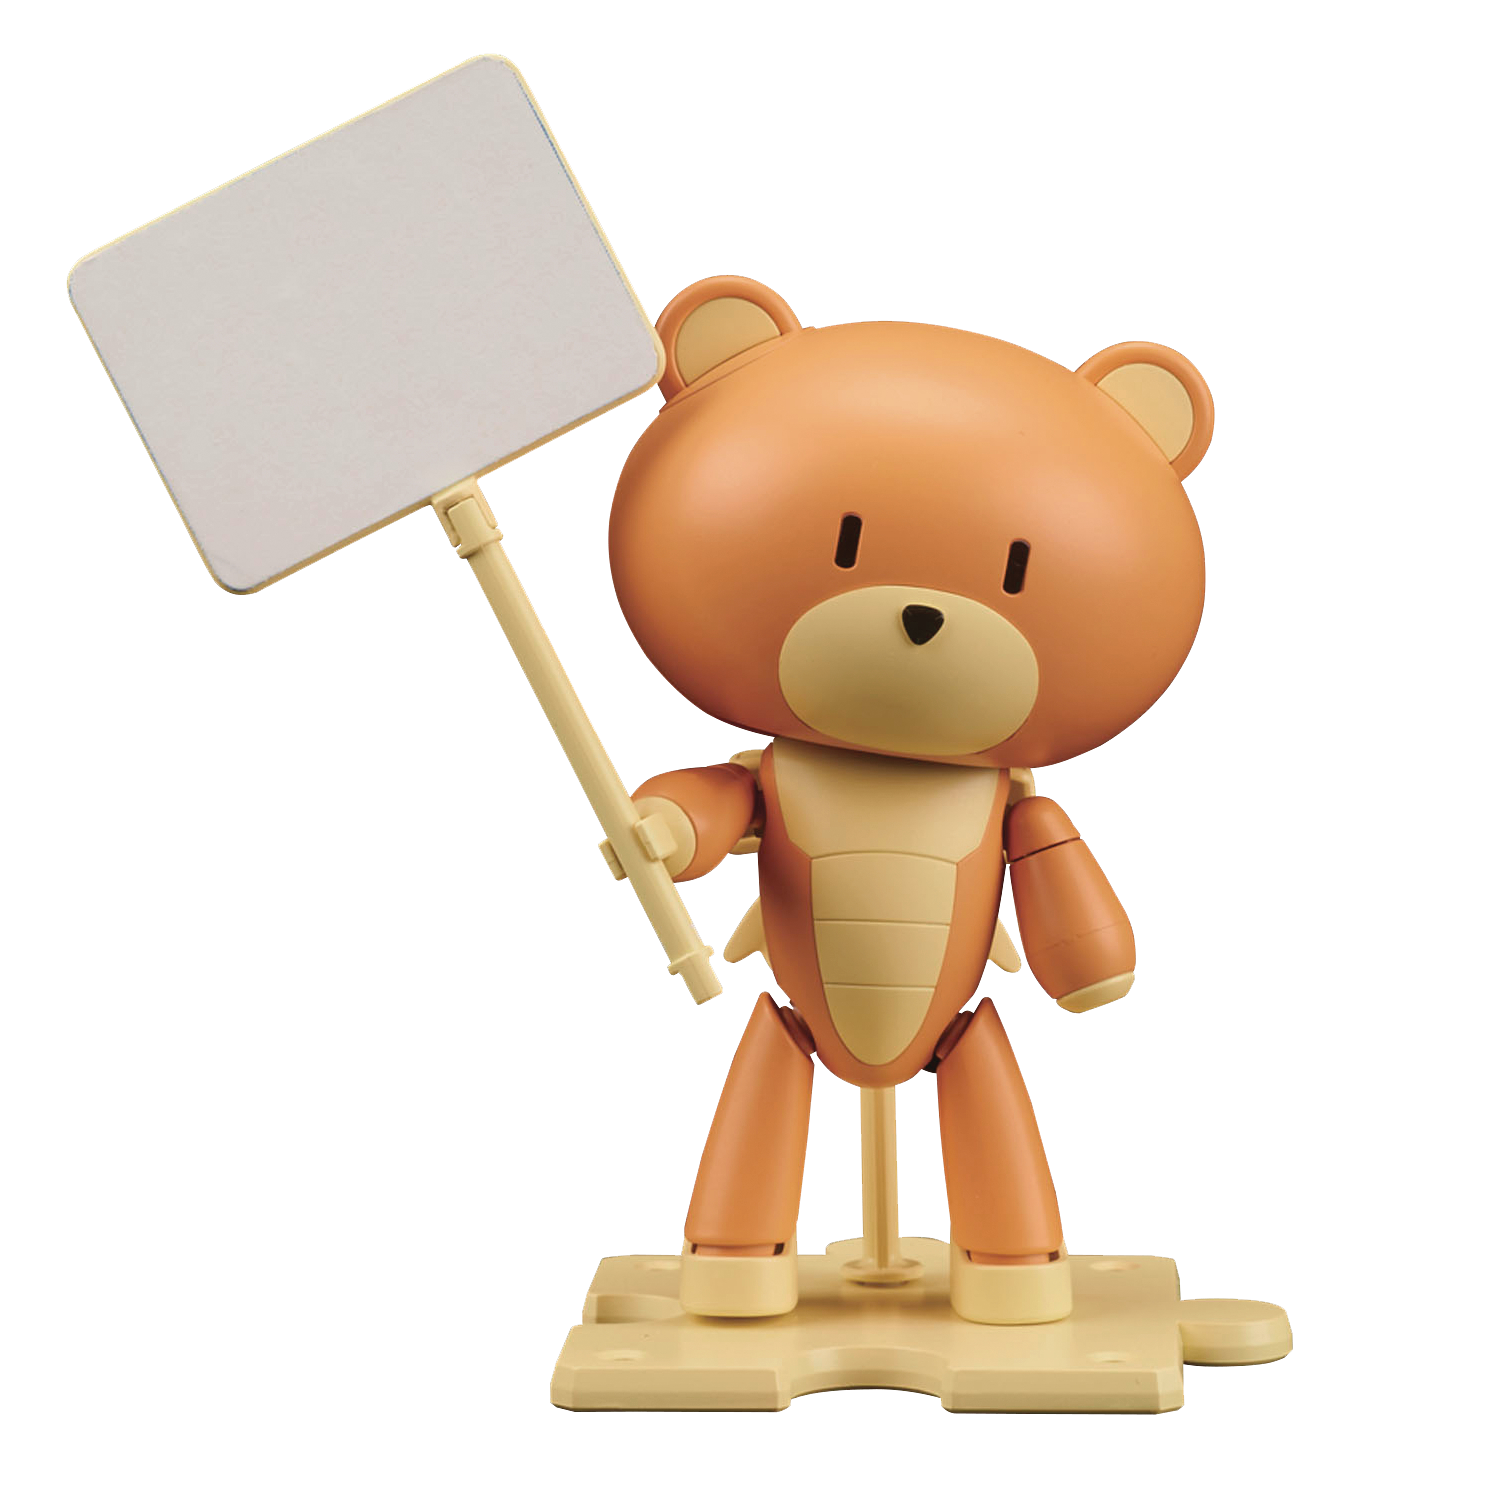
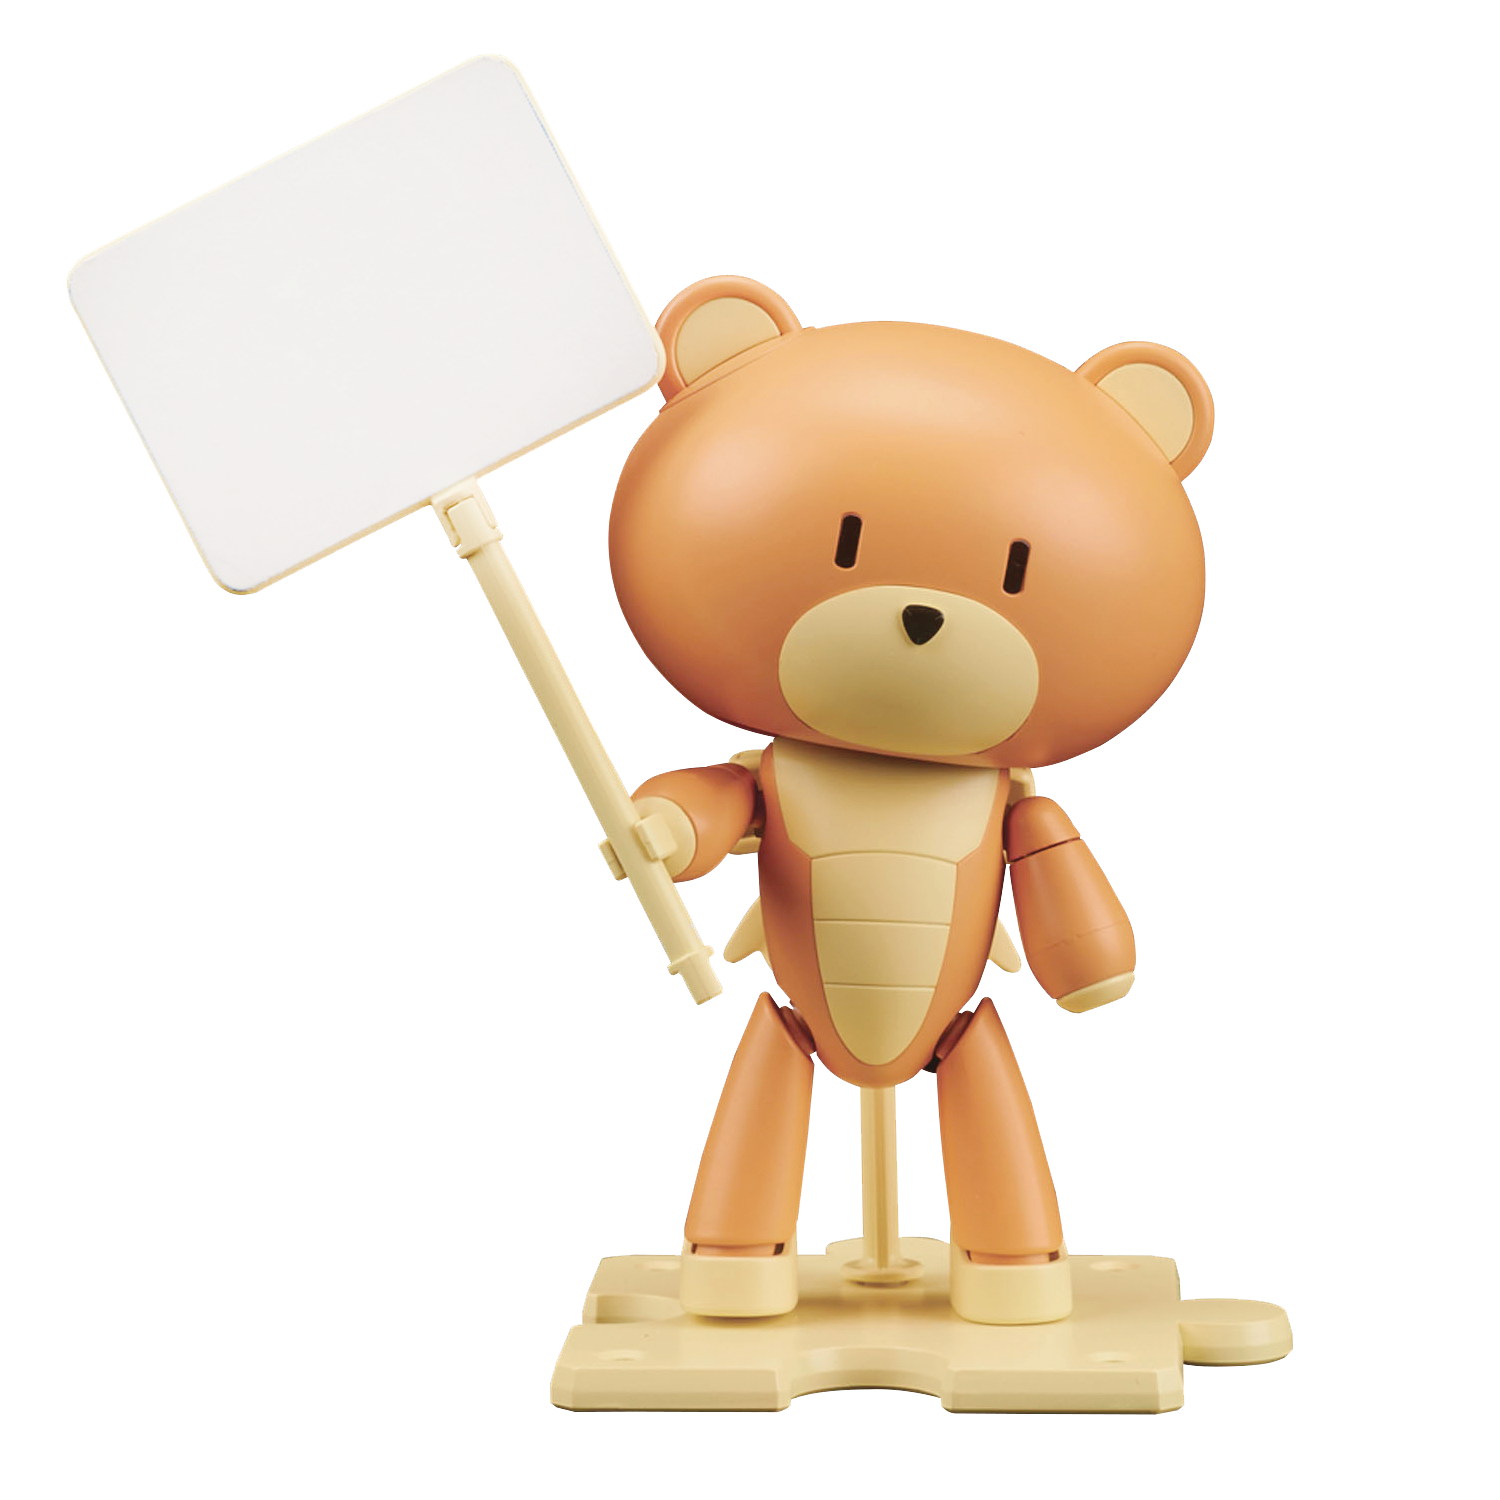
no message

Changed region(s): [[0.0307, 0.0307, 0.6133, 0.46]]

diff --git a/templates/seatSearch.html b/templates/seatSearch.html
@@ -3,25 +3,44 @@
 <head>
     <meta charset="UTF-8">
     <title>seatSearch</title>
+    <style>
+
+    input::-webkit-input-placeholder {
+        /* placeholder颜色  */
+        color: #000000;
+        /* placeholder字体大小  */
+        font-size: 38%;
+        /* placeholder位置  */
+        text-align: right;
+    }
+    input.name {
+        font-size:90%;
+        width:25%;height:70%;
+        text-align:center;
+        background-color:transparent;
+        border-width:1px;
+        transform:rotate(200deg);
+        -ms-transform:rotate(200deg); 	/* IE 9 */
+        -moz-transform:rotate(190deg); 	/* Firefox */
+        -webkit-transform:rotate(-27deg); /* Safari 和 Chrome */
+        -o-transform:rotate(200deg); 	/* Opera */
+    }
+    </style>
 </head>
 <body>
     <h1 style="font-size:60px">座位搜索</h1>
 
     {% load staticfiles %}
     <div >
-            <img src="{% static 'xiongba1.png' %}" width="622" height="700" style="color:blue;margin-left:20px;">
+                <img src="{% static 'xiongba4.png' %}" style="width:100%;height:100%;color:blue;margin-left:0px;">
 
-       <form action="../seatDetail/" style="position:absolute;font-size:80px;margin-top:-670px;margin-left:85px">
-           <h1 style="font-size:20px;transform:rotate(200deg);
--ms-transform:rotate(200deg); 	/* IE 9 */
--moz-transform:rotate(190deg); 	/* Firefox */
--webkit-transform:rotate(-26deg); /* Safari 和 Chrome */
--o-transform:rotate(200deg); 	/* Opera */">这里输入名字</h1>
-        <input name="name" style="font-size:30px;width:200px;height:100px;transform:rotate(200deg);
--ms-transform:rotate(200deg); 	/* IE 9 */
--moz-transform:rotate(190deg); 	/* Firefox */
--webkit-transform:rotate(-26deg); /* Safari 和 Chrome */
--o-transform:rotate(200deg); 	/* Opera */">
+               <form action="../seatDetail/" style="position:absolute;font-size:80px;margin-top:-134%;margin-left:11%">
+           <!--<h1 style="font-size:50%;margin-top:0;transform:rotate(200deg);-->
+              <!-- -ms-transform:rotate(200deg); 	/* IE 9 */-->
+              <!-- -moz-transform:rotate(190deg); 	/* Firefox */-->
+              <!-- -webkit-transform:rotate(-26deg); /* Safari 和 Chrome */-->
+              <!-- -o-transform:rotate(200deg); 	/* Opera */">点击输入名字</h1>-->
+        <input name="name" class="name" placeholder="点击输入名字" >
             <br>
             <!--<input type="submit" style="font-size:80px" size="10">-->
         </form>
